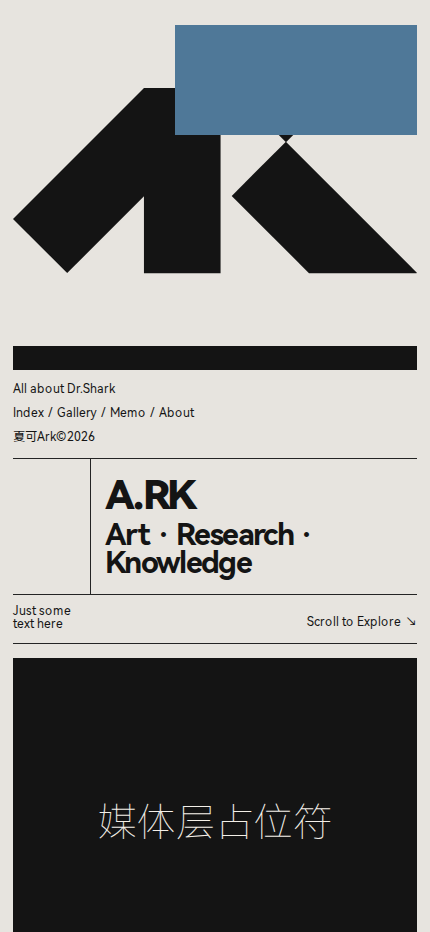
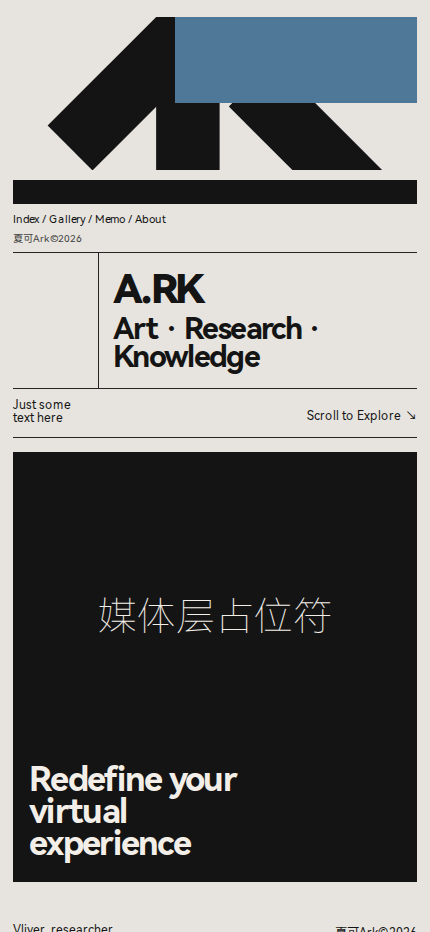
feat: realign mobile hero/info composition with ark reference

diff --git a/PLAN.md b/PLAN.md
@@ -56,6 +56,20 @@
 ## Status Log
 ### 2026-04-21
 - Completed:
+  - 继续推进 Stage 2/3：针对 `430` 顶区重排移动端 hero/info 节奏，压缩首屏高度并校正导航信息层级。
+  - 在 `max-width:640px` 下调整 `hero-stage` 比例、logo 与蓝色块尺寸及位置，减少与 `web-ref-430` 的构图偏差。
+  - 移动端导航改为两行紧凑布局（隐藏左侧描述、保留 links + 版权行），并微调 intro 左栏宽度。
+  - 覆盖固定审图集到 `Homepage/review-shots/latest` 四张文件。
+- Next:
+  - 处理 `1024/1280` 顶区仍偏大的问题，优先校准 Hero 高度与 info 区纵向间距。
+  - 对 `430` 继续微调蓝色块高度与首条黑色分隔带厚度，逼近 `Ark.pen`。
+- Blocked:
+  - 无环境阻塞；`compare:ark` 失败来自视觉差异未收敛。
+- Verification:
+  - `npm run check`
+  - `npm run verify:ark`
+
+- Completed:
   - 补充并固化分支规则：最终可审查提交与 review-shots 必须落在 `Codex`，`work` 仅作临时执行分支。
   - 执行分支统一：将最新规则提交同步到远端 `work` 与 `Codex`，并将当前工作分支切换为 `Codex`。
   - 对首页顶区做一轮结构压缩：导航取消 sticky 叠层，收紧 intro 空栏与标题字号，降低 1024/1280 顶区偏差。
